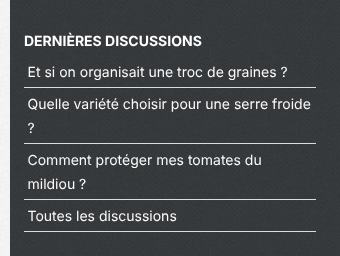
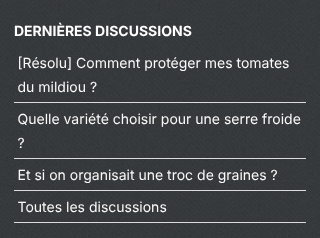
[cosmetic] User guide: follow the themes, widget and notice colors fixes, new screenshots

Changed region(s): [[0.0, 0.0, 0.9375, 1.0], [0.0625, 0.4706, 0.9375, 0.5294]]

diff --git a/docs/fr/utilisation.md b/docs/fr/utilisation.md
@@ -25,7 +25,7 @@ Discussion s'appuie sur d'autres plugins :
 * **FrontendSession** (obligatoire) : il gère la connexion des visiteurs sur le site public. Activez-le d'abord.
 * **commentsWikibar** et **Markdown syntax** (facultatifs) : ils ajoutent la barre d'outils et le Markdown dans les formulaires. Sans eux, la modification des messages n'est pas possible.
 
-Le thème du blog doit utiliser le jeu de modèles `dotty`, `mustek` ou `glaz` (comme Berlin). Avec un autre jeu de modèles, les pages du plugin affichent une erreur « Document non trouvé ».
+Le plugin fonctionne avec tous les thèmes : ses pages utilisent toujours ses propres gabarits et sa feuille de style.
 
 ## Régler le plugin
 
@@ -133,6 +133,8 @@ Dans **Système > Widgets**, ajoutez le widget **Dernières discussions** dans l
 
 ![Le widget dans l'administration](img/widget-admin.png)
 
+Les discussions résolues y portent le préfixe choisi, comme sur les titres des billets.
+
 Ses réglages : le titre, le nombre de discussions affichées (**Limite**) et l'option **Ajouter un lien vers le forum**, qui ajoute en bas le lien « Toutes les discussions ». Comme les autres widgets, il se règle aussi pour n'apparaître que sur l'accueil, et pour sa classe CSS.
 
 ![Le widget sur le site](img/widget-public.png)
@@ -143,9 +145,5 @@ Ses réglages : le titre, le nombre de discussions affichées (**Limite**) et l'
 
 ## Bon à savoir
 
-* **Les textes** : le champ « Content: » du formulaire de création n'est pas traduit en français. Plusieurs mots de l'interface sont des fautes d'orthographe d'origine (« paticipate », « disscussion »).
-* **Le widget** n'affiche pas le préfixe des discussions résolues dans la liste, contrairement à la page « Mes discussions ».
 * **Commentaires non enregistrés** : si vous les autorisez, tout visiteur peut répondre, mais seuls l'auteur de la discussion et les administrateurs peuvent la marquer comme résolue.
-* **Contraste** : avec le thème Berlin, l'encadré « discussion fermée » est peu lisible (texte sombre sur fond gris foncé).
-* **Autre jeu de modèles** : avec un thème qui n'est pas basé sur `dotty`, `mustek` ou `glaz`, le plugin renvoie des pages introuvables.
 * **Flux** : la balise auteur du flux Atom reste vide.
